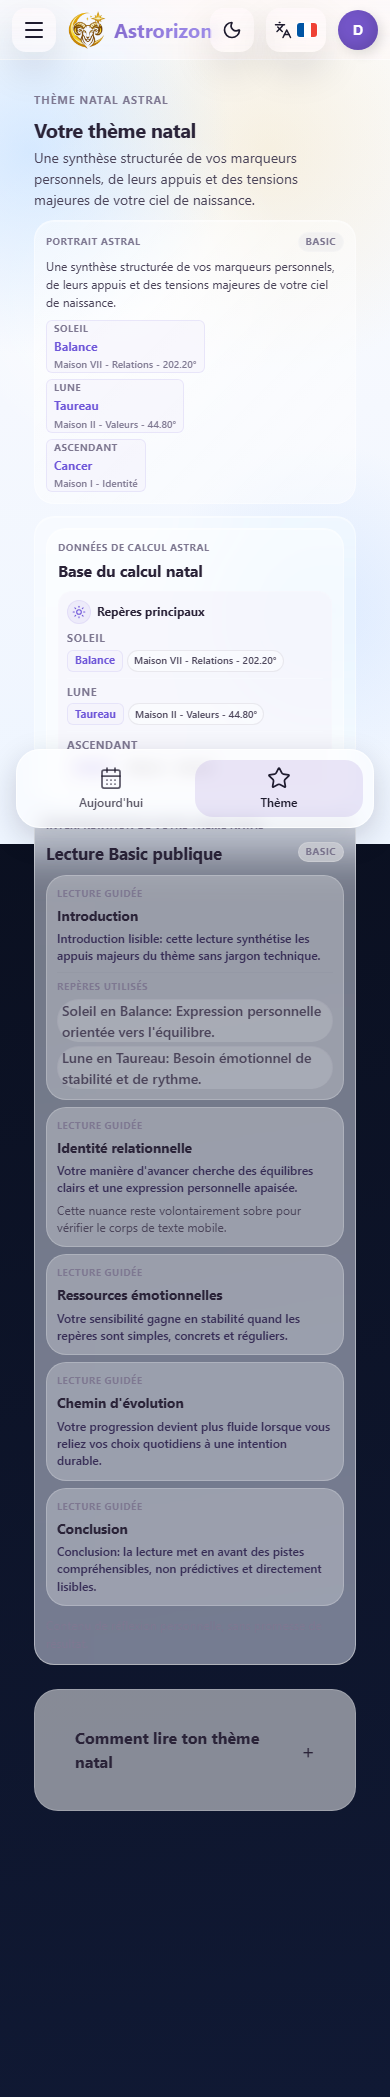
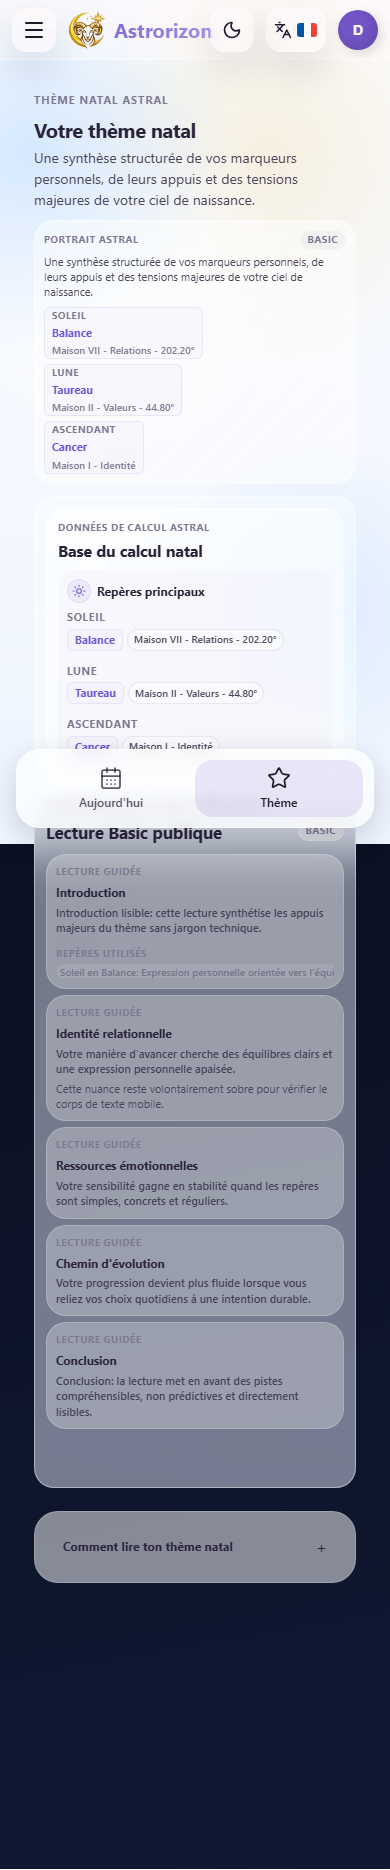
Refine mobile natal typography

diff --git a/frontend/src/pages/NatalChartPage.css b/frontend/src/pages/NatalChartPage.css
@@ -9,6 +9,7 @@
   --natal-surface-data-strong: color-mix(in srgb, var(--premium-accent-purple-strong) 6%, var(--premium-glass-surface-2));
   --natal-surface-chip: color-mix(in srgb, var(--premium-accent-purple-strong) 5%, var(--premium-glass-surface-2));
   --natal-border-data: var(--premium-glass-border-soft);
+  font-family: var(--font-family-base);
 }
 
 .page-layout.natal-page-container {
@@ -1291,25 +1292,25 @@
 
   .natal-page-portrait {
     grid-template-columns: 1fr;
-    gap: 9px;
+    gap: 7px;
     margin-top: 4px;
-    padding: 11px;
+    padding: 9px;
     border-radius: var(--radius-lg);
   }
 
   .natal-page-portrait__copy {
-    gap: 5px;
+    gap: 4px;
   }
 
   .natal-page-portrait__copy p {
-    font-size: var(--font-size-xs);
-    line-height: var(--line-height-normal);
+    font-size: var(--font-size-2xs);
+    line-height: var(--type-metadata-line-height);
     -webkit-line-clamp: 3;
   }
 
   .natal-page-portrait__facts {
     grid-template-columns: 1fr;
-    gap: 6px;
+    gap: 5px;
   }
 
   .natal-page-portrait__facts .natal-page-portrait__fact:nth-child(3) {
@@ -1317,8 +1318,8 @@
   }
 
   .natal-page-portrait__fact {
-    min-height: 48px;
-    padding: 7px 8px;
+    min-height: 42px;
+    padding: 6px 7px;
   }
 
   .natal-page-portrait__label,
@@ -1327,7 +1328,7 @@
   }
 
   .natal-page-portrait__fact strong {
-    font-size: var(--font-size-xs);
+    font-size: var(--font-size-2xs);
   }
 
   .natal-card,
@@ -1374,8 +1375,8 @@
   }
 
   .natal-reading__chapter p {
-    font-size: var(--font-size-xs);
-    line-height: var(--line-height-copy-tight);
+    font-size: var(--font-size-2xs);
+    line-height: var(--type-metadata-line-height);
   }
 
   .natal-grid {
@@ -1478,21 +1479,21 @@
   }
 
   .natal-reading__chapters {
-    gap: 7px;
+    gap: 6px;
   }
 
   .natal-reading__chapter {
     grid-template-columns: 1fr;
-    gap: 7px;
-    padding: 10px;
+    gap: 6px;
+    padding: 9px;
   }
 
   .natal-reading__chapter-main {
-    gap: 5px;
+    gap: 4px;
   }
 
   .natal-reading__chapter-body {
-    gap: 5px;
+    gap: 4px;
     max-width: none;
   }
 
@@ -1500,26 +1501,27 @@
     display: flex;
     flex-wrap: wrap;
     align-items: center;
-    gap: 5px 7px;
+    gap: 4px 5px;
     width: 100%;
-    padding-top: 6px;
+    padding-top: 4px;
     border-top: 1px solid color-mix(in srgb, var(--premium-text-meta) 12%, transparent);
   }
 
   .natal-reading__chapter-head h3 {
-    font-size: var(--font-size-sm);
+    font-size: var(--font-size-xs);
     line-height: var(--type-label-line-height);
   }
 
   .natal-reading__chapter-excerpt {
-    font-size: var(--font-size-xs);
+    color: color-mix(in srgb, var(--premium-text-strong) 72%, var(--premium-text-meta) 28%) !important;
+    font-size: var(--font-size-2xs);
     font-weight: var(--font-weight-medium);
-    line-height: var(--line-height-copy-tight);
+    line-height: var(--type-metadata-line-height);
   }
 
   .natal-reading__basis {
     flex: 1 1 100%;
-    gap: 5px;
+    gap: 3px;
     padding-top: 0;
     border-top: none;
   }
@@ -1530,7 +1532,17 @@
   }
 
   .natal-reading__basis ul {
-    gap: 4px;
+    flex-wrap: nowrap;
+    gap: 3px;
+    max-width: 100%;
+    overflow-x: auto;
+    overflow-y: hidden;
+    padding-bottom: 1px;
+    scrollbar-width: none;
+  }
+
+  .natal-reading__basis ul::-webkit-scrollbar {
+    display: none;
   }
 
   .natal-section-eyebrow {
@@ -1558,12 +1570,23 @@
     font-size: var(--font-size-3xs);
   }
 
-  .natal-badge--basis {
-    min-height: 16px;
-    padding: 0 4px;
+  .natal-reading__basis .natal-badge--basis {
+    display: inline-flex;
+    box-sizing: border-box;
+    flex: 0 0 auto;
+    height: calc(var(--font-size-3xs) + 4px);
+    min-height: 0;
+    max-width: none;
+    padding: 0 3px;
     border-color: color-mix(in srgb, var(--premium-text-meta) 10%, transparent);
-    background: color-mix(in srgb, var(--color-token-rgb-255-255-255) 14%, transparent);
+    background: color-mix(in srgb, var(--color-token-rgb-255-255-255) 10%, transparent);
+    color: color-mix(in srgb, var(--premium-text-meta) 86%, var(--premium-text-main) 14%);
     font-size: var(--font-size-3xs);
+    font-weight: var(--font-weight-medium);
+    line-height: calc(var(--font-size-3xs) + 4px);
+    overflow: visible;
+    text-overflow: clip;
+    white-space: nowrap;
   }
 
   .natal-badge--confidence {
@@ -1573,5 +1596,26 @@
     background: transparent;
     font-size: var(--font-size-3xs);
     letter-spacing: var(--letter-spacing-wide-xs);
+  }
+
+  .natal-chart-guide {
+    margin-top: 14px;
+  }
+
+  .natal-chart-guide__summary {
+    min-height: 38px;
+    padding: 9px 12px;
+    font-size: var(--font-size-xs);
+    line-height: var(--type-label-line-height);
+  }
+
+  .natal-chart-guide__summary::after {
+    font-size: var(--font-size-md);
+  }
+
+  .natal-chart-guide__content {
+    padding: 0 12px 14px;
+    font-size: var(--font-size-2xs);
+    line-height: var(--line-height-copy-tight);
   }
 }

diff --git a/frontend/e2e/cs-423-natal-basic-readable.spec.ts b/frontend/e2e/cs-423-natal-basic-readable.spec.ts
@@ -237,10 +237,15 @@ test("capture les preuves desktop et mobile d'une lecture Basic V2 lisible", asy
 
   await page.setViewportSize({ width: 390, height: 844 })
   const mobileChapterText = page.locator(".natal-reading__chapter-body p").first()
+  const mobileChapterTitle = page.locator(".natal-reading__chapter-head h3").first()
+  const mobileChapterExcerpt = page.locator(".natal-reading__chapter-excerpt").first()
   const mobileChapterMeta = page.locator(".natal-reading__chapter-meta").first()
+  const mobileBasisList = page.locator(".natal-reading__basis ul").first()
+  const mobileBasisChip = page.locator(".natal-badge--basis").first()
   const mobilePortraitFacts = page.locator(".natal-page-portrait__facts").first()
   const mobilePortraitCards = page.locator(".natal-page-portrait__fact")
   const mobilePageMain = page.locator(".page-layout.natal-page-container .page-layout__main").first()
+  const mobileGuideSummary = page.locator(".natal-chart-guide__summary").first()
   const mobileStyles = await mobileChapterText.evaluate((element) => {
     const styles = window.getComputedStyle(element)
     return {
@@ -248,17 +253,60 @@ test("capture les preuves desktop et mobile d'une lecture Basic V2 lisible", asy
       lineHeight: Number.parseFloat(styles.lineHeight),
     }
   })
+  const excerptStyles = await mobileChapterExcerpt.evaluate((element) => {
+    const styles = window.getComputedStyle(element)
+    return {
+      fontSize: Number.parseFloat(styles.fontSize),
+      fontWeight: Number.parseFloat(styles.fontWeight),
+      lineHeight: Number.parseFloat(styles.lineHeight),
+    }
+  })
+  const titleStyles = await mobileChapterTitle.evaluate((element) => {
+    const styles = window.getComputedStyle(element)
+    return {
+      fontSize: Number.parseFloat(styles.fontSize),
+    }
+  })
+  const basisChipStyles = await mobileBasisChip.evaluate((element) => {
+    const styles = window.getComputedStyle(element)
+    return {
+      fontSize: Number.parseFloat(styles.fontSize),
+      height: Number.parseFloat(styles.height),
+      paddingLeft: Number.parseFloat(styles.paddingLeft),
+      textOverflow: styles.textOverflow,
+      whiteSpace: styles.whiteSpace,
+    }
+  })
+  const basisListStyles = await mobileBasisList.evaluate((element) => {
+    const styles = window.getComputedStyle(element)
+    return {
+      flexWrap: styles.flexWrap,
+      overflowX: styles.overflowX,
+    }
+  })
+  const guideSummaryHeight = await mobileGuideSummary.evaluate((element) => element.getBoundingClientRect().height)
   const metaDisplay = await mobileChapterMeta.evaluate((element) => window.getComputedStyle(element).display)
   const portraitColumns = await mobilePortraitFacts.evaluate((element) => window.getComputedStyle(element).gridTemplateColumns)
   const bottomPadding = await mobilePageMain.evaluate((element) =>
     Number.parseFloat(window.getComputedStyle(element).paddingBottom),
   )
 
-  expect(mobileStyles.fontSize).toBeLessThanOrEqual(12)
-  expect(mobileStyles.lineHeight).toBeLessThanOrEqual(18)
+  expect(mobileStyles.fontSize).toBeLessThanOrEqual(11)
+  expect(mobileStyles.lineHeight).toBeLessThanOrEqual(16)
+  expect(excerptStyles.fontSize).toBeLessThan(titleStyles.fontSize)
+  expect(excerptStyles.fontWeight).toBeLessThanOrEqual(500)
+  expect(excerptStyles.lineHeight).toBeLessThanOrEqual(16)
   expect(metaDisplay).toBe("flex")
+  expect(basisChipStyles.fontSize).toBeLessThanOrEqual(10)
+  expect(basisChipStyles.height).toBeLessThanOrEqual(16)
+  expect(basisChipStyles.paddingLeft).toBeLessThanOrEqual(3)
+  expect(basisChipStyles.textOverflow).toBe("clip")
+  expect(basisChipStyles.whiteSpace).toBe("nowrap")
+  expect(basisListStyles.flexWrap).toBe("nowrap")
+  expect(basisListStyles.overflowX).toBe("auto")
   await expect(mobilePortraitCards).toHaveCount(3)
   expect(portraitColumns.trim().split(/\s+/)).toHaveLength(1)
+  expect(guideSummaryHeight).toBeLessThanOrEqual(40)
   expect(bottomPadding).toBeGreaterThanOrEqual(170)
   await page.screenshot({ path: resolve(EVIDENCE_DIR, "basic-readable-mobile-after.png"), fullPage: true })
 })